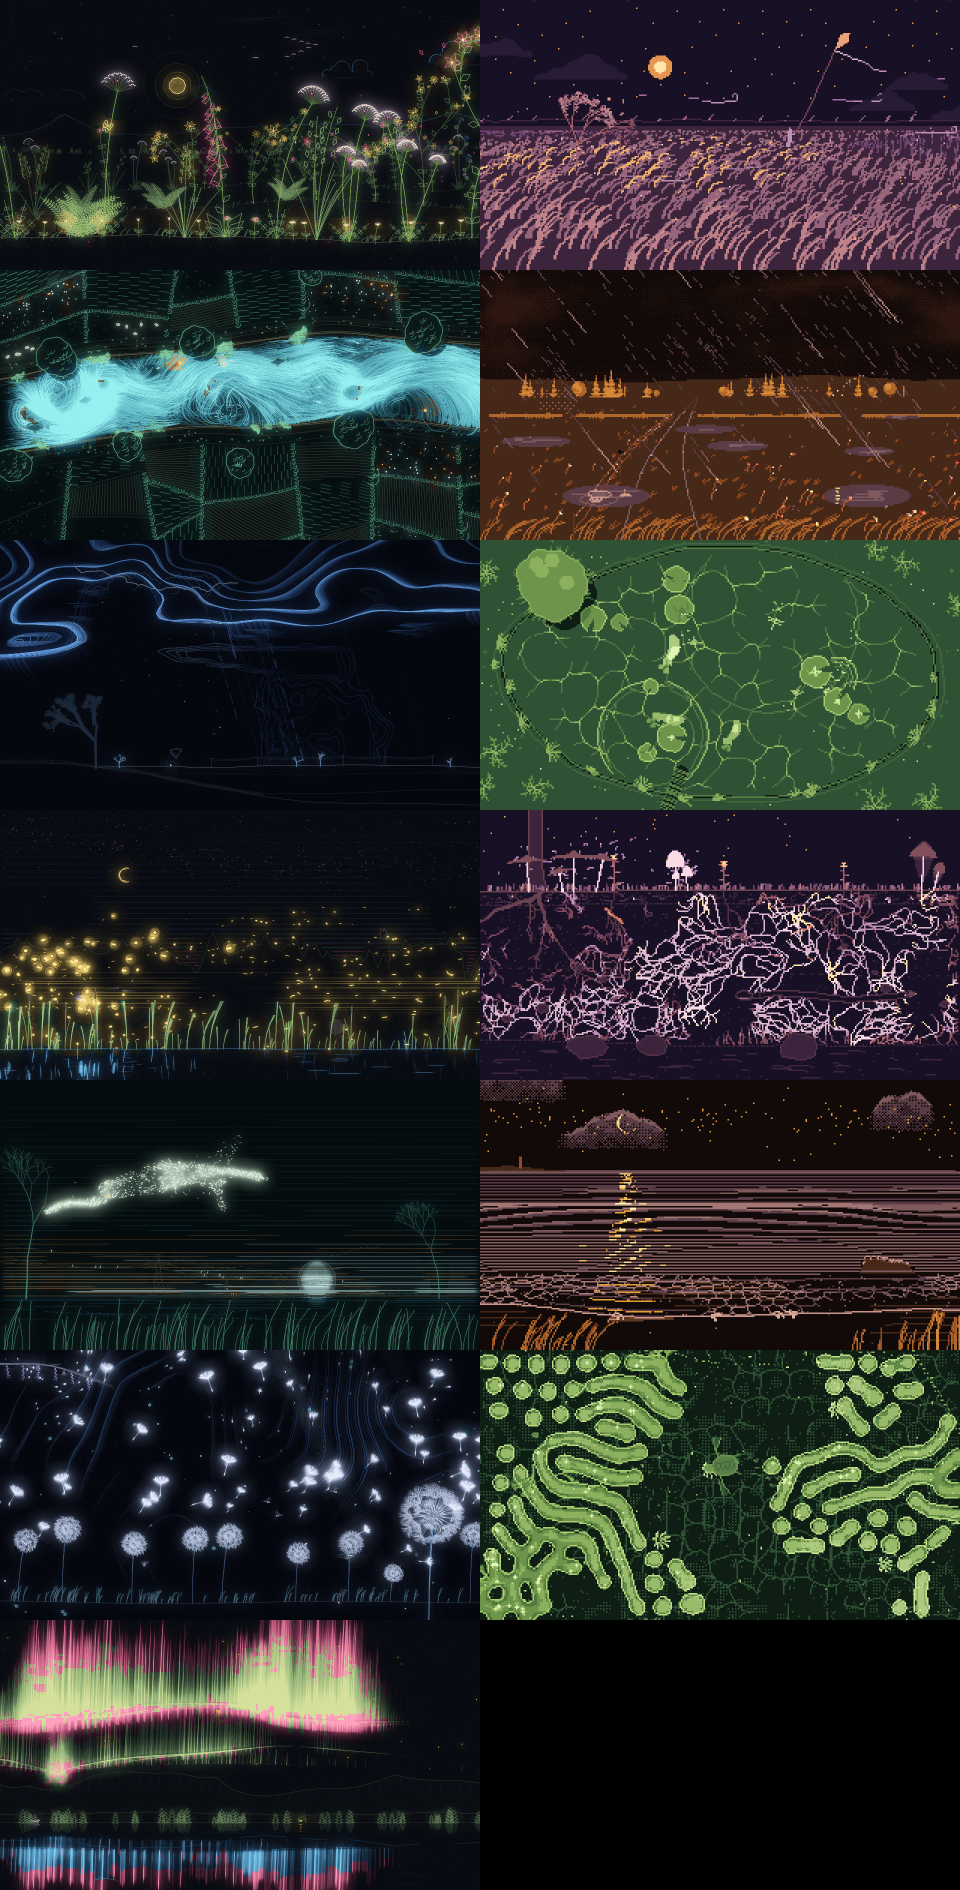
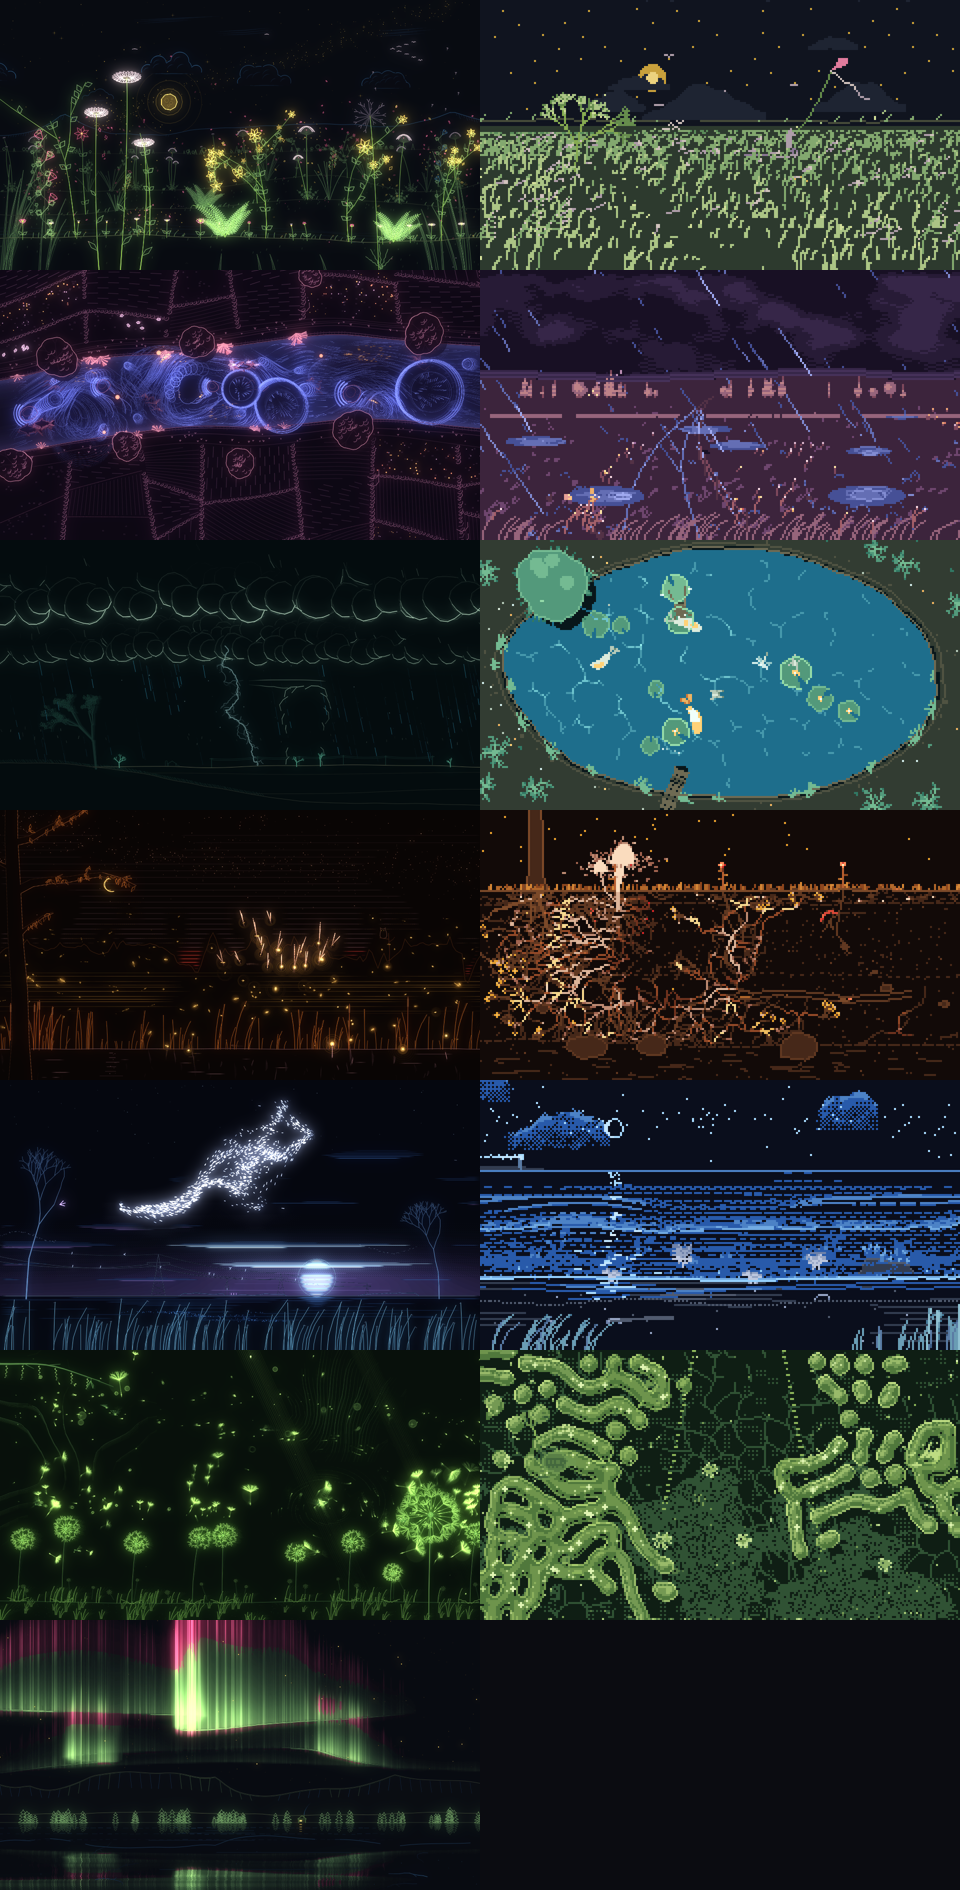
README + scene guide: kick / snare / hats per scene, the reactivity report, new contact sheet

diff --git a/README.md b/README.md
@@ -5,30 +5,31 @@ Living, generative, nature-inspired visuals for OBS that listen to your music.
 ![All thirteen scenes, alternating Ink in colour and Pixel looks across the six palettes](docs/scenes.png)
 
 Understory adds a video source to OBS. Point it at any audio (Desktop Audio, a mic, a media source)
-and it grows a small world on screen: plants that bloom with the bass and sway in the highs, rivers
-that run faster when the mids push, rain that falls on the drum hits, storms that charge through long
-builds and break with lightning on the biggest hits. Nothing ever freezes — in silence the world keeps
-breathing.
+and it grows a small world on screen that plays along with your music. It hears the kick, the snare and
+the hi-hats separately, and each scene answers each one in its own way: the kick lands, the snare
+breaks, the hats glint. Loud passages fill the world with light and life, quiet ones let it dim and
+settle. Nothing ever freezes: in silence the world keeps breathing.
 
 ## Scenes
 
-| Scene | What the music does |
-|---|---|
-| Meadow | bass grows stems and opens flowers; a row of daisies each opens to its own frequency; kicks roll gusts and burst seed heads; hats send bees darting; the swell flares the sun |
-| Wind | kicks sweep gust fronts and bow the poplars one by one; each depth row of grass flutters to its own band; the melody lifts the kite and the swallows |
-| River | kicks make trout leap; reed clumps nod along the bank to the melody; highs bring dancing mayflies and rises; big hits startle the sheep; width fans the ducklings out |
-| Rain | kicks throw gusts and heavy eave drops; each puddle rings to its own band; hats splash off the fence posts; the swell warms the farmhouse windows |
-| Storm Front | long loud passages charge the clouds; the biggest hits release lightning; sub rolls thunder along the cloud base; kicks push gust fronts through the oak; highs hang virga |
-| Pond | every hit drops a ripple; kicks flick the koi; big hits make the frog leap; reeds and lotus each answer one band; width is the wind on the water |
-| Fireflies | six colonies each flash on their own part of the spectrum; quiet brings a few; dense music synchronises the swarm; kicks ring the pool and shiver the web |
-| Mycelium | bass lines spread the network; kicks send nutrient pulses and squash the caps; regions glow with the melody; hats make springtails leap; sub drives the mole |
-| Murmuration | melody steers the flock; kicks ripple density waves through it; hats shimmer the wingbeats; width splits it in two; big transients scatter it |
-| Tide | phrase-length swells roll waves in; kicks burst breakers on the rocks; mids shimmer the moon path; crabs scuttle to their own bands |
-| Pollen & Seeds | highs lift seeds, sub-bass turns slow vortices; hits release the clocks; each clock fluffs to its band; hoverflies dart on the melody |
-| Coral | low-mids feed a slowly creeping reaction-diffusion reef; kicks dart the fish; hats flinch the polyps; anemones open to the mids; snares puff bubbles |
-| Aurora | stereo width and shimmer ripple the curtains; bass surges their light; kicks run pulses along them; each stretch of curtain answers a band; hits throw shooting stars |
+| Scene | Kick | Snare | Hats | Loudness |
+|---|---|---|---|---|
+| Meadow | every stem bows together, flower heads swell | flowers twitch and burst pollen, the dandelion lets its seeds go | dew glints on the grass tips | opens the flowers, brightens the meadow |
+| Wind | a gust wave rolls across the field, the tree shudders | seeds and petals tear off, birds startle out of the grass | sparkle on the grass tips | sets the wind and burns off the cloud shadows |
+| River | light surges down the current, a trout may leap | splashes and rings, the ducks startle | sun glitter on the ripples | brightens the water; quiet leaves it dark and glassy |
+| Rain | a sheet of heavy rain sweeps the field, the puddles ring | spray crowns all over the meadow, the crow flaps, the frog leaps | the drizzle glints, drips fall from the wire | lightens and weighs down the sky, heavier rain |
+| Storm Front | the cloud decks drop and heave, the rain gusts | lightning inside the clouds; built-up storms fork to the ground | rain glints and splashes | gathers and lowers the clouds; quiet breaks them up |
+| Pond | a lily pad dips, a ring and a sweep of light cross the pond | the frog leaps with a splash, a dragonfly darts | sun glints, a water strider strokes | light on the water; quiet leaves it glassy |
+| Fireflies | a flash wave rolls through the swarm, which falls into step | a cluster bursts into sparks | far fireflies twinkle on the treeline | how many glow and how brightly |
+| Mycelium | the cords throb and nutrient pulses race out | the web shudders, mushrooms puff spores | growing tips glint, springtails hop | the whole network glows and grows |
+| Murmuration | the flock flinches inward and rebounds | the ribbon tears and birds peel off | wing glints along the edges | the flock grows broader and brighter |
+| Tide | a wave runs up the beach | spray bursts off the rocks, the lighthouse beam sweeps | the moon path glitters, foam fizzes | swell height and moonlight |
+| Pollen & Seeds | a puff strips a ring of seeds from a clock | a gust shatters another clock and curls the seed stream | seed tips glint | how many seeds are in the air, and the light |
+| Coral | a surge sways the reef, the fish wheel | the reef spawns, bubbles rise, the clownfish dart | glints dance across the caustic light | sunlight reaching down through the water |
+| Aurora | light pulses along the curtain folds | a corona flare, the curtains stretch and fold | rays flicker, stars glint | curtain height and brightness |
 
-In Ink looks the glow itself breathes with the music: kicks flare it, the phrase swell lifts it.
+Every scene also keeps its finer mappings (bass, melody, individual frequency bands, stereo width,
+the slow swell of a phrase). In Ink looks the glow itself breathes with the music.
 
 ### Follow the music
 
@@ -55,8 +56,8 @@ between OBS sessions; **Reset world** in the source settings starts fresh.
 - **Pixel** — low resolution, crisp pixels, six palettes (Moss, Dusk, Riverbed, Ember, Glacier, Lichen).
 - **Mono-pixel** — pixel resolution, one colour, sixteen brightness levels.
 
-**Bloom** adds a soft two-scale light around bright lines in Ink — fireflies get halos, aurora and
-lightning glow. **Tint** colours Ink and Mono-pixel; **Palette** colours Pixel and Ink in colour. **Paper** inverts to dark ink on a light ground.
+**Bloom** adds a soft two-scale light, in the colour of whatever is shining, around bright lines in
+Ink: fireflies get halos, aurora and lightning glow. **Tint** colours Ink and Mono-pixel; **Palette** colours Pixel and Ink in colour. **Paper** inverts to dark ink on a light ground.
 Style, tint and palette can change live without resetting the scene.
 
 ## Controls
@@ -65,7 +66,8 @@ Style, tint and palette can change live without resetting the scene.
 - **Look:** style, tint, palette, pixel size, ink resolution, bloom, faint-line lift, paper, output size.
 - **Nature:** density, speed, reactivity, trails, scene crossfade time, scene changes (stay / cycle in
   order / follow the music), minutes per scene, seed.
-- **Listening:** sensitivity, bass / mids / highs gain. The analyser auto-levels, so quiet and loud mixes both work.
+- **Listening:** sensitivity, bass / mids / highs gain. The analyser auto-levels, so quiet and loud
+  mixes both work; bass gain also scales the kick, mids the snare, highs the hats.
 - **World:** share the living world (on by default), world speed, reset world.
 - **Hotkeys** (Settings → Hotkeys): next scene, previous scene, cycle style.
 
@@ -130,4 +132,11 @@ US_BIG=1 ./build-obs/obs_host_test build-obs/understory.plugin out/host storm 5 
 
 `us_render` renders any scene with real audio (`ffmpeg -i song.wav -f f32le -ac 2 -ar 48000 song.f32`
 then `--audio song.f32`) or a built-in test track (`--journey 30` runs the follow-the-music director with a 30 s minimum), to frames you can turn into GIFs or video.
+
+To see how visibly a scene answers the music, make the test tracks once and run the reactivity report:
+
+```sh
+python3 tools/testaudio/gen_tracks.py out/tracks          # breakbeat, hip-hop, techno, ambient, piano (needs numpy)
+python3 tools/reactivity.py storm --tracks out/tracks     # picture change after each kick / snare / hat, brightness vs loudness
+```
 See `docs/design.md` for the architecture and `docs/scene-guide.md` for writing new scenes.

diff --git a/docs/scene-guide.md b/docs/scene-guide.md
@@ -28,8 +28,14 @@ const us_scene_vt us_scene_<id> = {"<id>", "<Name>", <default trails 0..1>, crea
 
 - `ctx->dt` simulation dt (already × speed macro). `ctx->real_dt` wall dt (use for audio envelopes).
 - `ctx->a` (`us_audio`, already × reactivity): `sub bass lowmid mid high air level swell onset beat kick
-  centroid width silence active bands[32]` — see `core/us_audio.h`. `beat` is a 1-frame flag; `onset`/`kick`
-  are decaying envelopes. `swell` is phrase-scale loudness (~8 s).
+  snare hat kick_hit snare_hit hat_hit centroid width silence active bands[32]` — see `core/us_audio.h`.
+  `kick`/`snare`/`hat` are drum envelopes from separate detectors (notes and steady noise don't fire them);
+  `*_hit` and `beat` are 1-frame flags; `onset` is a broadband decaying envelope. `swell` is phrase-scale
+  loudness (~8 s). Regions and bands read low where the mix holds nothing.
+- Give kick, snare and hats each a distinct, visible answer, and make louder mean more light/life.
+  Check with `python3 tools/reactivity.py <scene>` (targets: kickX ≥ 2, snareX ≥ 1.8, hatX ≥ 1.4,
+  brightness correlating with loudness on the ambient and piano tracks, calm in the techno track's gap).
+  Keep the baseline motion low (dMed ~0.5–4): constant churn hides every reaction.
 - `ctx->p->density` (0..1, default 0.5): how much stuff. Must visibly change the scene and stay sane at 0 and 1.
 - `ctx->w` the shared world (`core/us_world.h`). READ fields freely. WRITE only via
   `us_world_add(w, &w->field, rate_per_second, ctx->dt)`. Respect the design table's read/write roles.
